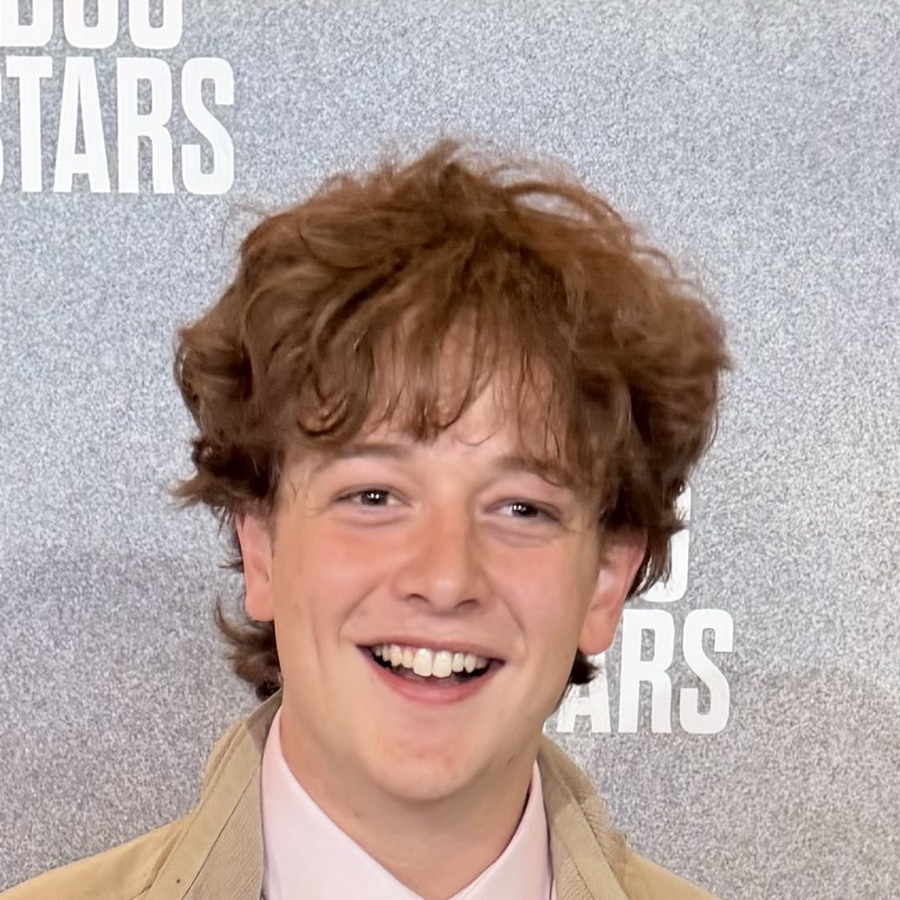
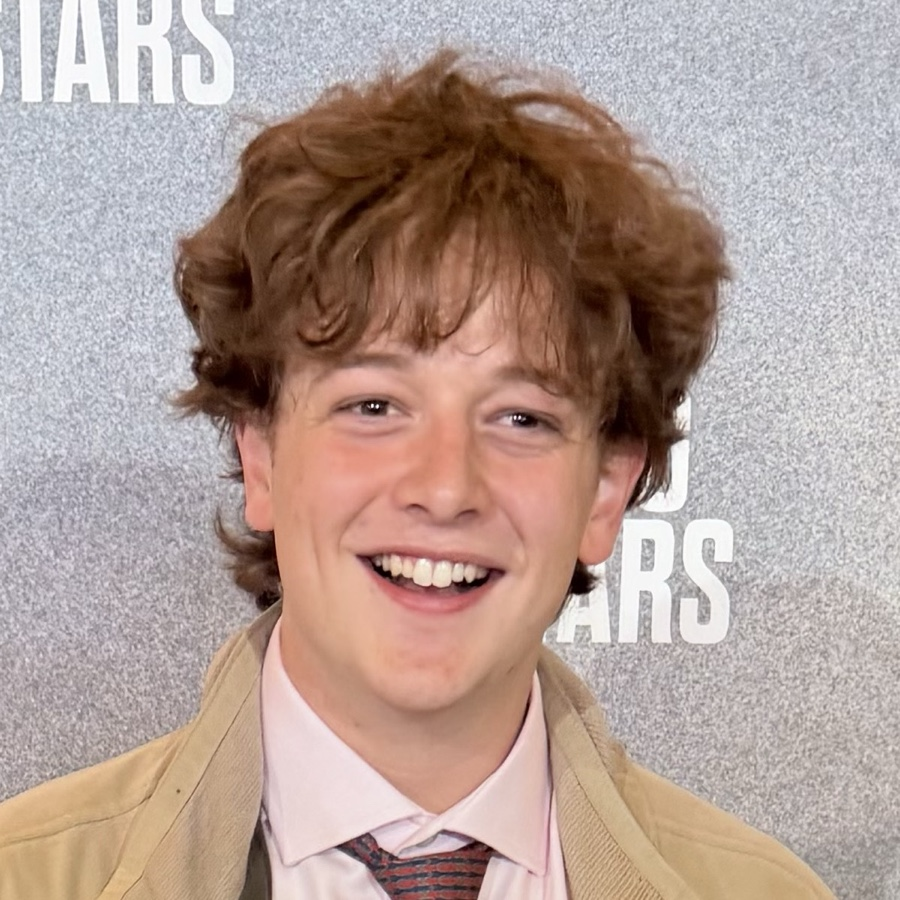
Add a Swiss variant of the landing page, and cut Aube back to the argument
/swiss — the same landing page argued the other way, for comparison rather
than to replace anything. Light ground, one grotesque, and a twelve column
grid that every band actually hangs off. No character field behind the type
and no drawn-figure display face: hierarchy is carried by size, weight and
position, which is the whole claim of Swiss typography. Linked from its own
footer back to the dark version, and deliberately not in the sections list,
because it is an alternative rather than a section.

Aube — the page opened with the product's own marketing: a nav, a cloud of
floating terms, a rotating city headline and a call to action. That made it a
second landing page for Aube rather than a case study of building it. All of
it is gone and the page now opens on the reason the thing exists, which is
what the rest of it was already about. The rotating city, the term cloud and
the gradient pill went with it.

The portrait sits lower again on the head.

diff --git a/src/pages/Swiss.tsx b/src/pages/Swiss.tsx
@@ -1,0 +1,144 @@
+import { Link } from "react-router-dom";
+import { publicFrames, NEWEST } from "@/data/frames";
+
+/**
+ * The same landing page argued a different way, for comparison rather than to
+ * replace it: light ground, one grotesque, and a twelve column grid that
+ * everything actually sits on.
+ *
+ * The archive's version reaches for texture — a character field behind the
+ * type, a display face built out of drawn figures. This one takes the opposite
+ * position. Nothing is decorated. Hierarchy is carried by size, weight and
+ * position on the grid, which is the whole argument of Swiss typography, and
+ * the only ornament is the rule between sections.
+ */
+
+const SECTIONS: [string, string, string][] = [
+  ["01", "Google", "/google"],
+  ["02", "Photography", "/photography"],
+  ["03", "Graphic design", "/graphic-design"],
+  ["04", "Aube", "/aube"],
+  ["05", "Betteride", "/betteride"],
+  ["06", "Nothing", "/nothing"],
+  ["07", "Berlin", "/berlin"],
+  ["08", "Archive", "/archive"],
+  ["09", "Colophon", "/index.txt"],
+];
+
+const INK = "#111111";
+const RULE = "#DADAD6";
+const MUTED = "#6B6B66";
+const PAPER = "#FBFBF9";
+
+/** Every band in the page hangs off the same twelve columns. */
+function Band({ children, className = "" }: { children: React.ReactNode; className?: string }) {
+  return (
+    <div className={`mx-auto grid w-[min(1240px,100%-3rem)] grid-cols-4 gap-x-5 md:grid-cols-12 ${className}`}>
+      {children}
+    </div>
+  );
+}
+
+export default function Swiss() {
+  const total = publicFrames().length;
+  const sans = 'Archivo, "Helvetica Neue", Helvetica, Arial, sans-serif';
+
+  return (
+    <main className="min-h-screen" style={{ background: PAPER, color: INK, fontFamily: sans }}>
+      <div className="py-12 md:py-20">
+
+        {/* Masthead. The name takes eight columns, the facts take the last four,
+            set small and flush right so the two read as one line of information. */}
+        <Band>
+          <h1 className="col-span-4 m-0 md:col-span-8"
+            style={{ fontSize: "clamp(2.6rem,7.4vw,5.6rem)", fontWeight: 600,
+                     letterSpacing: "-.035em", lineHeight: .92 }}>
+            Noé Elamine
+          </h1>
+          <div className="col-span-4 flex flex-col gap-1 self-end md:col-span-4 md:items-end md:text-right"
+            style={{ fontSize: ".8rem", letterSpacing: ".01em", color: MUTED }}>
+            <span>An archive of my work</span>
+            <span>{total} frames</span>
+            <span style={{ color: INK }}>{NEWEST}</span>
+          </div>
+        </Band>
+
+        <Band className="mt-10 md:mt-14">
+          <div className="col-span-4 md:col-span-12" style={{ borderTop: `1px solid ${INK}` }} />
+        </Band>
+
+        {/* Copy on six columns, portrait on four, a column of air between them. */}
+        <Band className="mt-8 md:mt-10">
+          <div className="col-span-4 flex flex-col gap-5 md:col-span-6"
+            style={{ fontSize: "1.0625rem", lineHeight: 1.55, letterSpacing: "-.003em" }}>
+            <p className="m-0">
+              I work as an <b style={{ fontWeight: 600 }}>Associate Product Marketing
+              Manager at Google</b> on the Chrome browser team.
+            </p>
+            <p className="m-0">
+              In my free time I am also building{" "}
+              <a href="https://aube-ai.com" target="_blank" rel="noopener noreferrer"
+                style={{ fontWeight: 600, textDecoration: "underline", textUnderlineOffset: "3px" }}>
+                Aube
+              </a>, a platform that analyses marketing campaigns for cultural
+              appropriation, tokenism, stereotypes, and visual authenticity across
+              90+ markets.
+            </p>
+            <p className="m-0">I did my undergrad at ESCP and my postgrad at Imperial.</p>
+            <p className="m-0">I like learning about AI and building cool stuff.</p>
+            <p className="m-0" style={{ color: MUTED }}>
+              This is an archive of all my work. Thanks for taking a look.
+            </p>
+          </div>
+
+          <figure className="col-span-4 m-0 mt-8 md:col-span-4 md:col-start-9 md:mt-0">
+            <img src="/portrait.jpg" alt="Noé Elamine"
+              className="block w-full" style={{ aspectRatio: "1 / 1", objectFit: "cover", filter: "grayscale(1)" }} />
+            <figcaption className="mt-2" style={{ fontSize: ".75rem", color: MUTED }}>
+              Noé Elamine · London
+            </figcaption>
+          </figure>
+        </Band>
+
+        {/* The sections. A number, a rule, a name — the same row repeated, which
+            is what makes a list read as a system rather than as nine decisions. */}
+        <Band className="mt-16 md:mt-24">
+          <p className="col-span-4 m-0 md:col-span-12"
+            style={{ fontSize: ".7rem", letterSpacing: ".14em", textTransform: "uppercase", color: MUTED }}>
+            Sections
+          </p>
+        </Band>
+
+        <Band className="mt-4">
+          <ol className="col-span-4 m-0 list-none p-0 md:col-span-12">
+            {SECTIONS.map(([n, label, to]) => (
+              <li key={to}>
+                <Link to={to} className="swiss-row grid grid-cols-4 items-baseline gap-x-5 py-4 md:grid-cols-12"
+                  style={{ borderTop: `1px solid ${RULE}`, color: INK }}>
+                  <span className="col-span-1" style={{ fontSize: ".8rem", color: MUTED }}>{n}</span>
+                  <span className="col-span-3 md:col-span-8"
+                    style={{ fontSize: "clamp(1.35rem,3.1vw,2.1rem)", fontWeight: 500, letterSpacing: "-.025em" }}>
+                    {label}
+                  </span>
+                  <span className="hidden md:col-span-3 md:block" style={{ fontSize: ".8rem", color: MUTED }}>{to}</span>
+                </Link>
+              </li>
+            ))}
+          </ol>
+        </Band>
+
+        <Band className="mt-20">
+          <div className="col-span-4 flex flex-wrap items-baseline justify-between gap-x-8 gap-y-2 md:col-span-12"
+            style={{ borderTop: `1px solid ${INK}`, paddingTop: "1rem", fontSize: ".8rem", color: MUTED }}>
+            <span>Noé Elamine</span>
+            <a href="mailto:noe.elmne@gmail.com" style={{ color: MUTED }}>noe.elmne@gmail.com</a>
+            <Link to="/#index" style={{ color: INK, textDecoration: "underline", textUnderlineOffset: "3px" }}>
+              The dark version
+            </Link>
+          </div>
+        </Band>
+
+      </div>
+    </main>
+  );
+}

diff --git a/src/pages/Aube.tsx b/src/pages/Aube.tsx
@@ -1,4 +1,3 @@
-import { useEffect, useState } from "react";
 import { Link } from "react-router-dom";
 
 /**
@@ -21,16 +20,6 @@ const T = {
   info: "hsl(212 76% 63%)",
   beta: "hsl(243 52% 50%)",
 };
-
-const CITIES = ["Sydney", "Lagos", "Jakarta", "São Paulo", "Seoul", "Cairo", "Mumbai"];
-
-const TERMS: [string, string, string][] = [
-  ["Cultural appropriation", "5%", "10%"], ["Tokenism", "63%", "7%"],
-  ["Stereotyping", "76%", "18%"], ["Colour symbolism", "3%", "27%"],
-  ["Religious insensitivity", "68%", "32%"], ["Translation error", "72%", "70%"],
-  ["Gesture misread", "4%", "76%"], ["Historical blindspot", "56%", "84%"],
-  ["Gender norms", "13%", "89%"], ["Visual taboo", "42%", "93%"],
-];
 
 const FOUNDATIONS: [string, string][] = [
   ["Hofstede cultural dimensions", "A comparative lens for how cultural values vary between markets."],
@@ -70,71 +59,18 @@ const CHECKS: [string, string, string][] = [
 ];
 
 export default function Aube() {
-  const [city, setCity] = useState(0);
-  useEffect(() => {
-    if (window.matchMedia("(prefers-reduced-motion: reduce)").matches) return;
-    const id = window.setInterval(() => setCity((c) => (c + 1) % CITIES.length), 2600);
-    return () => window.clearInterval(id);
-  }, []);
-
-  const pill = {
-    background: `linear-gradient(180deg, ${T.accentHi} 0%, ${T.accent} 100%)`,
-    boxShadow: `0 0 28px hsl(28 79% 57% / .32)`,
-  };
-
   return (
     <main className="min-h-screen overflow-x-hidden" style={{ background: T.bg, color: T.text }}>
       <div className="mx-auto w-full max-w-[1120px] px-5 sm:px-8">
 
-        <nav className="flex flex-wrap items-center gap-3 py-4 sm:py-6" aria-label="Aube case study">
-          <span className="h-4 w-4 flex-none rounded-full"
-            style={{ background: `conic-gradient(from 180deg, ${T.accent3}, ${T.accent} 40%, hsl(240 5% 12%) 75%, ${T.accent3})` }} />
-          <span className="text-[.95rem]">Aube</span>
-          <span className="ml-3 hidden gap-5 text-[.85rem] md:flex" style={{ color: T.text2 }}>
-            <a href="#how">How it works</a><a href="#checks">What it checks</a><a href="#access">For NGOs</a>
-          </span>
-          <Link to="/#index" className="ml-auto inline-flex min-h-11 items-center rounded-md px-3.5 py-2 text-[.82rem]"
-            style={{ border: `1px solid ${T.border}`, color: T.text2 }}>Archive</Link>
-          <a href="https://aube-ai.com" target="_blank" rel="noreferrer"
-            className="inline-flex min-h-11 items-center rounded-md px-3.5 py-2 text-[.82rem]" style={{ ...pill, color: "hsl(240 5% 3%)" }}>
-            Visit Aube
-          </a>
-        </nav>
-
-        {/* Hero */}
-        <section className="relative flex min-h-[calc(100svh-5rem)] flex-col items-center justify-center gap-6 text-center">
-          {TERMS.map(([t, l, top]) => (
-            <span key={t} aria-hidden="true"
-              className="pointer-events-none absolute hidden whitespace-nowrap text-[9px] uppercase tracking-[.14em] md:block"
-              style={{ left: l, top, color: T.text3 }}>{t}</span>
-          ))}
-          <span className="flex max-w-[38ch] items-center justify-center gap-2 text-[10px] uppercase tracking-[.16em]" style={{ color: T.text2 }}>
-            <i className="block h-1.5 w-1.5 rounded-full" style={{ background: T.accent }} />
-            Cultural intelligence for global brands · powered by peer reviewed research
-          </span>
-          <h1 className="m-0 max-w-[20ch] text-[clamp(1.9rem,5.4vw,3.4rem)] font-normal leading-[1.14] tracking-[-.012em]"
+        {/* No hero. This is a case study, not a second landing page for the
+            product, so it opens on the reason the thing exists. */}
+        <section className="pt-16 pb-24 sm:pt-24">
+          <p className="mb-3 text-[10px] uppercase tracking-[.16em]" style={{ color: T.text2 }}>Aube · why I built it</p>
+          <h1 className="m-0 max-w-[24ch] text-[clamp(1.7rem,4.4vw,2.9rem)] font-normal leading-[1.14] tracking-[-.012em]"
             style={{ fontFamily: '"abacaxi-latin-variable", Abacaxi, "range-sans-variable", sans-serif' }}>
-            Your campaign launched in{" "}
-            <span style={{ color: T.accent }}>{CITIES[city]}</span>
-          </h1>
-          <p className="m-0 max-w-[48ch] text-[1rem] leading-relaxed" style={{ color: T.text2 }}>
-            Aube analyses campaigns for cultural blind spots across 92 markets.
-            Catch what you would otherwise miss before launch.
-          </p>
-          <a href="https://aube-ai.com" target="_blank" rel="noreferrer"
-            className="rounded-full px-7 py-3.5 text-[.95rem]" style={{ ...pill, color: "hsl(240 5% 3%)" }}>
-            Get your first analysis
-          </a>
-          <span className="text-[.8rem]" style={{ color: T.text2 }}>Results in under 2 minutes</span>
-        </section>
-
-        {/* What it is */}
-        <section className="py-24">
-          <p className="mb-3 text-[10px] uppercase tracking-[.16em]" style={{ color: T.text2 }}>What it is</p>
-          <h2 className="m-0 max-w-[24ch] text-[clamp(1.5rem,3.6vw,2.4rem)] font-normal leading-tight"
-            style={{ fontFamily: '"abacaxi-latin-variable", Abacaxi, sans-serif' }}>
             A campaign fails in a market nobody in the room is from.
-          </h2>
+          </h1>
           <p className="mt-5 max-w-[62ch] leading-relaxed" style={{ color: T.text2 }}>
             Global brands ship creative into markets they do not live in, and the
             problems only surface after launch, when the cost is a public apology.

diff --git a/src/App.tsx b/src/App.tsx
@@ -4,6 +4,7 @@ import { Grain, DotScreen, TreeField } from "@/components/Texture";
 import Index from "@/pages/Index";
 import Photography from "@/pages/Photography";
 import GraphicDesign from "@/pages/GraphicDesign";
+import Swiss from "@/pages/Swiss";
 import Archive from "@/pages/Archive";
 import Colophon from "@/pages/Colophon";
 import Google from "@/pages/Google";
@@ -48,7 +49,7 @@ function ScrollTop() {
  * disagree, and a light Google page with film grain over it would be neither
  * one thing nor the other.
  */
-const ZONES = ["/google", "/aube", "/betteride", "/nothing", "/berlin"];
+const ZONES = ["/google", "/aube", "/betteride", "/nothing", "/berlin", "/swiss"];
 
 /**
  * Pages that are already a dense field of type. The tree is meant to be the
@@ -88,6 +89,7 @@ export default function App() {
         <Route path="/" element={<Index />} />
         <Route path="/photography" element={<Photography />} />
         <Route path="/graphic-design" element={<GraphicDesign />} />
+        <Route path="/swiss" element={<Swiss />} />
         <Route path="/archive" element={<Archive />} />
         <Route path="/index.txt" element={<Colophon />} />
         <Route path="/google" element={<Google />} />

diff --git a/src/index.css b/src/index.css
@@ -213,6 +213,10 @@
   .typed-rule{font-family:var(--data);font-size:13.5px;line-height:1;
     color:var(--grey-dim);white-space:nowrap;overflow:hidden;user-select:none}
 
+  /* The Swiss variant's list rows. Hover is a tint of the ground, not a colour. */
+  .swiss-row{transition:background .15s ease}
+  .swiss-row:hover{background:#F0F0EC}
+
   /* ---- a field is a block, never a tint ---- */
   .field{background:var(--klein);color:#fff;padding:clamp(1.6rem,4vw,2.6rem);
     position:relative;isolation:isolate;overflow:hidden}
